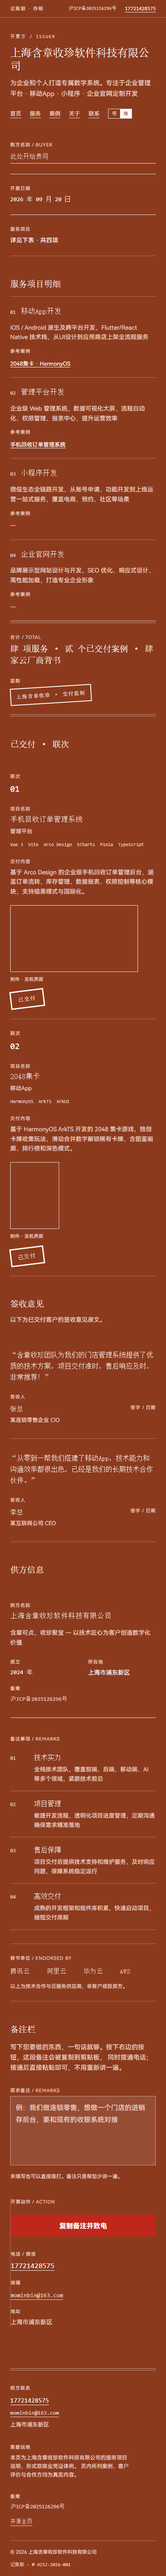
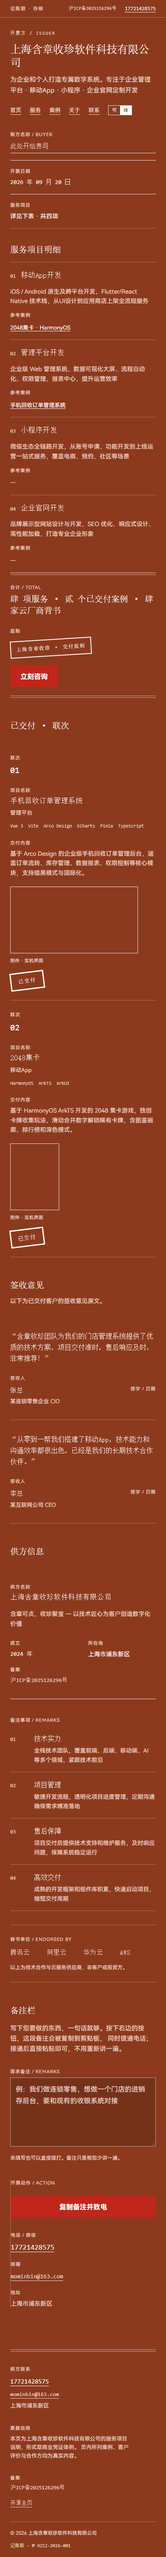
fix(design): 执行判定轮的 4 条 —— 输入对比度、揭示失效保护、主行动入首屏
判定轮：4 条 resolved（GROUND / 资源 / 导航 / 伪链接），
2 条 partial（FIRST VIEWPORT / 揭示门禁），另有 3 条新回归。

已修：

1. 输入框对比度（审查员正确）
   浅色白雾 rgba(253,252,249,.10) 混合后底为 #974d34，
   placeholder 暗色仅 4.09:1。改为**暗凹槽** rgba(12,10,8,.18)：
   凹槽 #75311a → placeholder 7.01:1(亮) / 6.34:1(暗)，边框 3.82:1。
   浅色文字在暗底上对比反而更高，且「材料上刻出的凹槽」本就该是暗的。

2. 控件边框（审查员正确）
   --on-ground-rule-strong 暗色 0.38 混合后仅 2.39:1，不达 WCAG 1.4.11 的 3:1。
   两主题统一提到 0.55。

3. 揭示门禁的包加载失败case（审查员正确）
   @media (scripting: none) 覆盖不了「脚本可解析但执行失败」。
   新增 RevealBoot 组件 + <head> 内 1.8s 失效保护计时器：
   应用挂载即撤销，未挂载则撤下 .js-reveal 让内容全部可见。
   已用拦截 _next JS 的方式实测：包失败时 js-reveal 撤下、0 隐藏元素。

4. FIRST VIEWPORT（契约承诺未兑现）
   主行动上移入合计区、置于监制章旁，并压缩顶部留白约 96px。
   实测：合计 y=805、主行动 y=858，均在 900 视口内。

未采纳的一条（附证据）：
审查员报告票眉电话链接被降级为 text-seal、对比度 1.29:1。
经核查**不成立**：所审提交 4dc9f10 的 TicketHead.tsx 中该链接为
text-on-ground，全文无 text-seal；浏览器实测 rgb(253,252,249) on
rgb(140,58,30) = 7.47:1（亮）/ 5.77:1（暗）；2 倍放大截图中该号码
比旁边备案号更亮，与「比备案号暗」的描述相反。

门禁：detect 剔除 69 条已证实假阳性后 0 主判定项；G2/G3 全通过；
降级三路径（正常 / 减弱动效 / 禁用 JS）内容均完整可见。

diff --git a/app/components/Totals.tsx b/app/components/Totals.tsx
@@ -1,5 +1,6 @@
 'use client'
 
+import { siteConfig } from '@/config/site'
 import { useInView } from './useInView'
 
 /**
@@ -23,25 +24,34 @@ export default function Totals() {
       className="mx-auto max-w-[1180px] px-6 md:px-10"
     >
       <div className="g-rule-double rv-rule" />
-      <div className="grid grid-cols-1 gap-y-6 py-6 md:grid-cols-[1.8fr_1fr] md:items-center md:gap-x-10">
+      <div className="grid grid-cols-1 gap-y-6 py-5 md:grid-cols-[1.8fr_1fr] md:items-center md:gap-x-10">
         <div className="rv-ink" style={{ '--i': 1 } as React.CSSProperties}>
           <span className="g-field-label">合计 / TOTAL</span>
           <p className="font-display text-[clamp(1.25rem,2.8vw,1.9rem)] leading-snug tracking-[-0.01em] text-on-ground">
             肆 项服务 · 贰 个已交付案例 · 肆 家云厂商背书
           </p>
         </div>
-        <div className="md:text-right">
-          <span
-            className="g-field-label rv-ink md:text-right"
-            style={{ '--i': 2 } as React.CSSProperties}
-          >
-            监制
-          </span>
+        <div className="flex flex-col items-start gap-5 md:flex-row md:items-center md:justify-end md:gap-6">
           {/* 监制章在合计区进入视口时按下 —— 世界的原生动作。
               地面上取纸白（章红 on 棕红 仅 1.29:1，红压红看不见）。 */}
-          <span className="g-seal seal-press text-[12px]" data-pressed={seen}>
-            上海含章收珍 · 交付监制
+          <span className="flex flex-col items-start gap-1.5 md:items-end">
+            <span
+              className="g-field-label rv-ink md:mb-0 md:text-right"
+              style={{ '--i': 2 } as React.CSSProperties}
+            >
+              监制
+            </span>
+            <span className="g-seal seal-press text-[12px]" data-pressed={seen}>
+              上海含章收珍 · 交付监制
+            </span>
           </span>
+
+          {/* 主行动落在开票动作位置 —— 监制章旁（方向契约 FIRST VIEWPORT 的要求）。
+              合计紧接行项表收口，故首屏内即可触达，不必滚到页末。
+              章红填充可用：白字 on 章红 = 5.92:1，按钮自带底色。 */}
+          <a href={`tel:${siteConfig.contact.phone.replace(/\s/g, '')}`} className="act">
+            立刻咨询
+          </a>
         </div>
       </div>
       <div className="g-rule-double rv-rule" style={{ '--i': 1 } as React.CSSProperties} />

diff --git a/app/layout.tsx b/app/layout.tsx
@@ -1,5 +1,6 @@
 import type { Metadata } from 'next'
 import { ThemeProvider } from 'next-themes'
+import RevealBoot from './components/RevealBoot'
 import { siteConfig } from '@/config/site'
 import './globals.css'
 
@@ -117,15 +118,21 @@ export default function RootLayout({
             显示字体用宋体（中国官方票据的标题字体），正文用黑体，
             票据编号用等宽。定义见 globals.css 的 --font-* 。 */}
 
-        {/* 揭示动效的启用标志。
-            滚动揭示的初始隐藏态只在 .js-reveal 下生效，而该类由这段
-            同步脚本设置 —— 它必须先于渲染执行。
-            这样一旦 JS 包加载失败（网络、缓存、老版本 bundle），
-            该类不存在，内容一律可见，不会出现「首屏以下全空」。
-            @media (scripting: none) 覆盖不到「脚本可解析但执行失败」的情况。 */}
+        {/* 揭示动效的启用标志 + 失效保护。
+            滚动揭示的初始隐藏态只在 .js-reveal 下生效。
+            若包加载失败（404 / 解析错误 / 网络中断），RevealBoot 永不挂载，
+            1.8s 后计时器撤下该类 —— 内容全部可见，不会出现首屏以下全空。
+            仅靠 @media (scripting: none) 不够：它覆盖不了
+            「脚本可解析但执行失败」这一类。 */}
         <script
           dangerouslySetInnerHTML={{
-            __html: `document.documentElement.classList.add('js-reveal')`,
+            __html:
+              "(function(){var d=document.documentElement;" +
+              "d.classList.add('js-reveal');" +
+              "var t=setTimeout(function(){" +
+              "if(!window.__revealReady)d.classList.remove('js-reveal');},1800);" +
+              "window.__revealBoot=function(){window.__revealReady=true;clearTimeout(t);};" +
+              "})();",
           }}
         />
         {/* ── 百度统计 (替换 YOUR_BAIDU_TONGJI_ID) ── */}
@@ -159,6 +166,7 @@ export default function RootLayout({
           dangerouslySetInnerHTML={{ __html: JSON.stringify(jsonLdBreadcrumb) }}
         />
         <ThemeProvider attribute="class" defaultTheme="dark" enableSystem={false}>
+          <RevealBoot />
           {children}
         </ThemeProvider>
       </body>

diff --git a/app/components/TicketHead.tsx b/app/components/TicketHead.tsx
@@ -57,7 +57,7 @@ export default function TicketHead() {
 
       <div className="mx-auto max-w-[1180px] px-6 md:px-10">
         {/* 开票方：直接落在棕红地面上 */}
-        <div id="hero" className="print-wipe pt-9 pb-7 md:pt-12 md:pb-9">
+        <div id="hero" className="print-wipe pt-7 pb-5 md:pt-8 md:pb-6">
           <div className="flex flex-wrap items-start justify-between gap-6">
             <div>
               <p className="font-mono text-[11px] tracking-[0.14em] text-on-muted">
@@ -95,14 +95,14 @@ export default function TicketHead() {
 
         {/* 购方栏：留白等着填 */}
         <div className="relative grid grid-cols-1 g-rule-b md:grid-cols-[1.6fr_1fr_1fr]">
-          <div className="py-6 md:border-r md:border-on-ground/25 md:pr-8">
+          <div className="py-4 md:border-r md:border-on-ground/25 md:pr-8">
             <span className="g-field-label">购方名称 / BUYER</span>
             {/* 空白字段就是一条空栏线 —— 票据本来的样子 */}
             <p className="mt-2 border-b border-on-ground/50 pb-1 font-display text-[clamp(.95rem,1.8vw,1.15rem)] leading-snug text-on-muted">
               此处开给贵司
             </p>
           </div>
-          <div className="border-t border-on-ground/25 py-6 md:border-t-0 md:border-r md:px-8">
+          <div className="border-t border-on-ground/25 py-4 md:border-t-0 md:border-r md:px-8">
             <span className="g-field-label">开票日期</span>
             <p className="font-mono text-[14px] text-on-ground">
               {today && (
@@ -115,7 +115,7 @@ export default function TicketHead() {
               )}
             </p>
           </div>
-          <div className="border-t border-on-ground/25 py-6 md:border-t-0 md:pl-8">
+          <div className="border-t border-on-ground/25 py-4 md:border-t-0 md:pl-8">
             <span className="g-field-label">服务项目</span>
             <p className="font-body text-[14px] text-on-ground">详见下表 · 共四项</p>
           </div>

diff --git a/app/globals.css b/app/globals.css
@@ -44,7 +44,9 @@
   --on-ground: #FDFCF9;        /* 7.47:1 */
   --on-ground-muted: #EFD9CE;  /* 5.65:1 */
   --on-ground-rule: rgba(253, 252, 249, 0.28);
-  --on-ground-rule-strong: rgba(253, 252, 249, 0.5);
+  /* 0.55：控件边框需 ≥3:1（WCAG 1.4.11）。
+     实测混合后 0.38 只有 2.39:1、0.5 得 3.08:1，0.55 留出余量。 */
+  --on-ground-rule-strong: rgba(253, 252, 249, 0.55);
   /* 地面上的链接色：#1B3A6B 仅 1.47:1、#8FB3E0 仅 3.54:1，均不可用。
      取 #BBD4EE 得 5.03:1。 */
   --on-ground-link: #BBD4EE;
@@ -245,12 +247,14 @@ a.on-ground-link {
 .dark .act { color: #1A1614; }
 .dark .act:hover { background: #F08A79; }
 
-/* 输入 —— 坐在棕红地面上。
-   不能取 --panel：暗色模式下那是近黑 #1A1614，在棕红上读作「挖了个黑洞」。
-   改为材料上刻出的浅色凹槽：同色系提亮 + 纸白文字。 */
+/* 输入 —— 材料上刻出的凹槽（暗，不是亮）。
+   先前的浅色白雾（rgba(253,252,249,.10)）混合后底为 #974d34，
+   placeholder 在暗色模式下只有 4.09:1，低于 4.5:1。
+   改为暗凹槽后，浅色文字对比反而更高：
+     α=0.18 → 凹槽 #75311a，placeholder 7.01:1(亮) / 6.34:1(暗)，边框 3.82:1 */
 .input {
   width: 100%;
-  background: rgba(253, 252, 249, 0.10);
+  background: rgba(12, 10, 8, 0.18);
   border: var(--rule) solid var(--on-ground-rule-strong);
   border-radius: 0;
   padding: var(--s3);
@@ -258,12 +262,12 @@ a.on-ground-link {
   color: var(--on-ground);
   transition: background 160ms var(--ease), border-color 160ms var(--ease);
 }
-.input:hover { background: rgba(253, 252, 249, 0.14); }
+.input:hover { background: rgba(12, 10, 8, 0.26); }
 .input:focus {
   outline: 2px solid var(--on-ground);
   outline-offset: 0;
   border-color: var(--on-ground);
-  background: rgba(253, 252, 249, 0.14);
+  background: rgba(12, 10, 8, 0.26);
 }
 .input::placeholder { color: var(--on-ground-muted); }
 

diff --git a/app/components/LineItems.tsx b/app/components/LineItems.tsx
@@ -21,7 +21,7 @@ export default function LineItems() {
 
   return (
     <section id="services" className="mx-auto max-w-[1180px] px-6 md:px-10">
-      <div className="g-rule-b pb-3 pt-12 md:pt-16">
+      <div className="g-rule-b pb-3 pt-8 md:pt-10">
         <h2 className="font-display text-[clamp(1.25rem,2.6vw,1.75rem)] tracking-[-0.01em] text-on-ground">
           服务项目明细
         </h2>
@@ -46,7 +46,7 @@ export default function LineItems() {
               style={{ '--i': i } as React.CSSProperties}
             >
               {/* 桌面：四栏行项 */}
-              <div className="hidden grid-cols-[64px_1fr_2fr_1.1fr] items-baseline gap-x-6 py-5 md:grid">
+              <div className="hidden grid-cols-[64px_1fr_2fr_1.1fr] items-baseline gap-x-6 py-4 md:grid">
                 <span className="font-mono text-right text-[13px] text-on-muted">
                   {String(i + 1).padStart(2, '0')}
                 </span>
@@ -70,7 +70,7 @@ export default function LineItems() {
               </div>
 
               {/* 移动：字段堆叠，仍带栏线 */}
-              <div className="space-y-3 py-5 md:hidden">
+              <div className="space-y-3 py-4 md:hidden">
                 <div className="flex items-baseline gap-3">
                   <span className="font-mono text-[12px] text-on-muted">
                     {String(i + 1).padStart(2, '0')}

diff --git a/app/components/RevealBoot.tsx b/app/components/RevealBoot.tsx
@@ -1,0 +1,29 @@
+'use client'
+
+import { useEffect } from 'react'
+
+declare global {
+  interface Window {
+    __revealBoot?: () => void
+  }
+}
+
+/**
+ * 揭示动效的就绪信号。
+ *
+ * `<head>` 的内联脚本会设置 .js-reveal（让首屏以下初始隐藏）
+ * 并起一个 1.8s 的失效保护计时器。本组件挂载即撤销该计时器，
+ * 表示应用已就绪，滚动揭示的观察器马上会接管。
+ *
+ * 若包加载失败（404、解析错误、网络中断），本组件永不挂载，
+ * 计时器到点撤下 .js-reveal —— 内容全部可见，不会出现首屏以下全空。
+ *
+ * 仅靠 @media (scripting: none) 不够：它覆盖不了
+ * 「脚本可解析但执行失败」这一类。
+ */
+export default function RevealBoot() {
+  useEffect(() => {
+    window.__revealBoot?.()
+  }, [])
+  return null
+}
